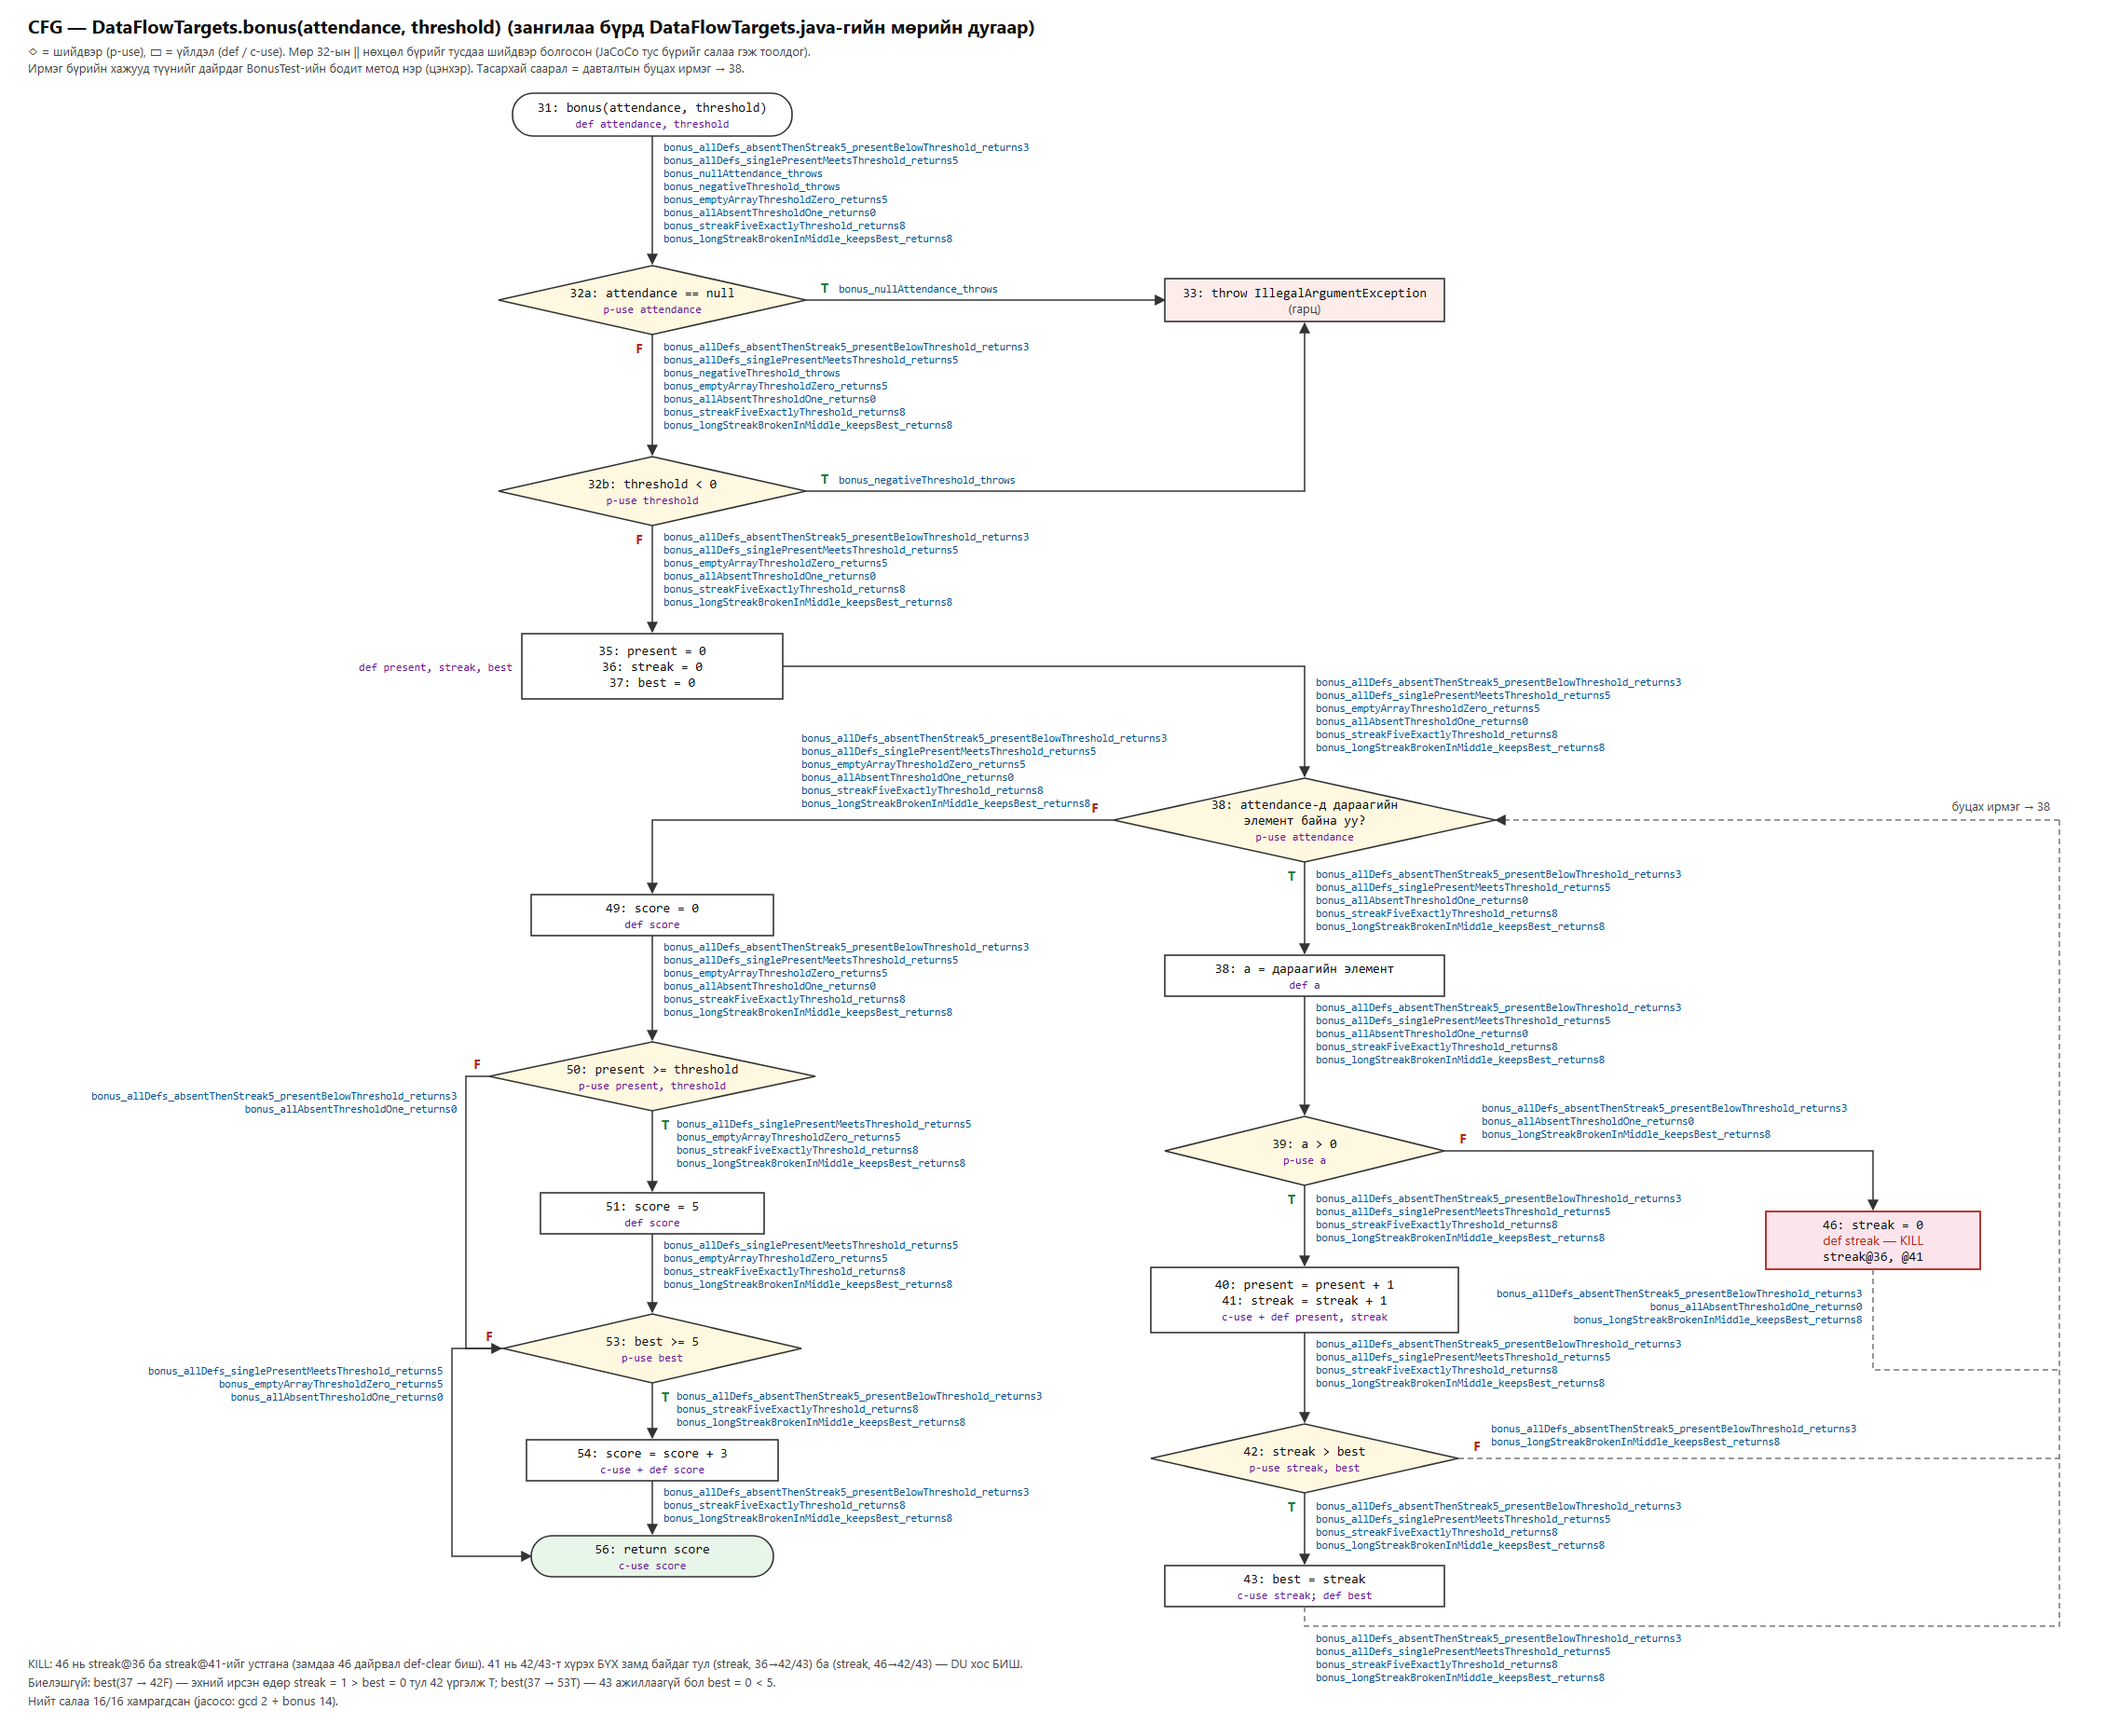
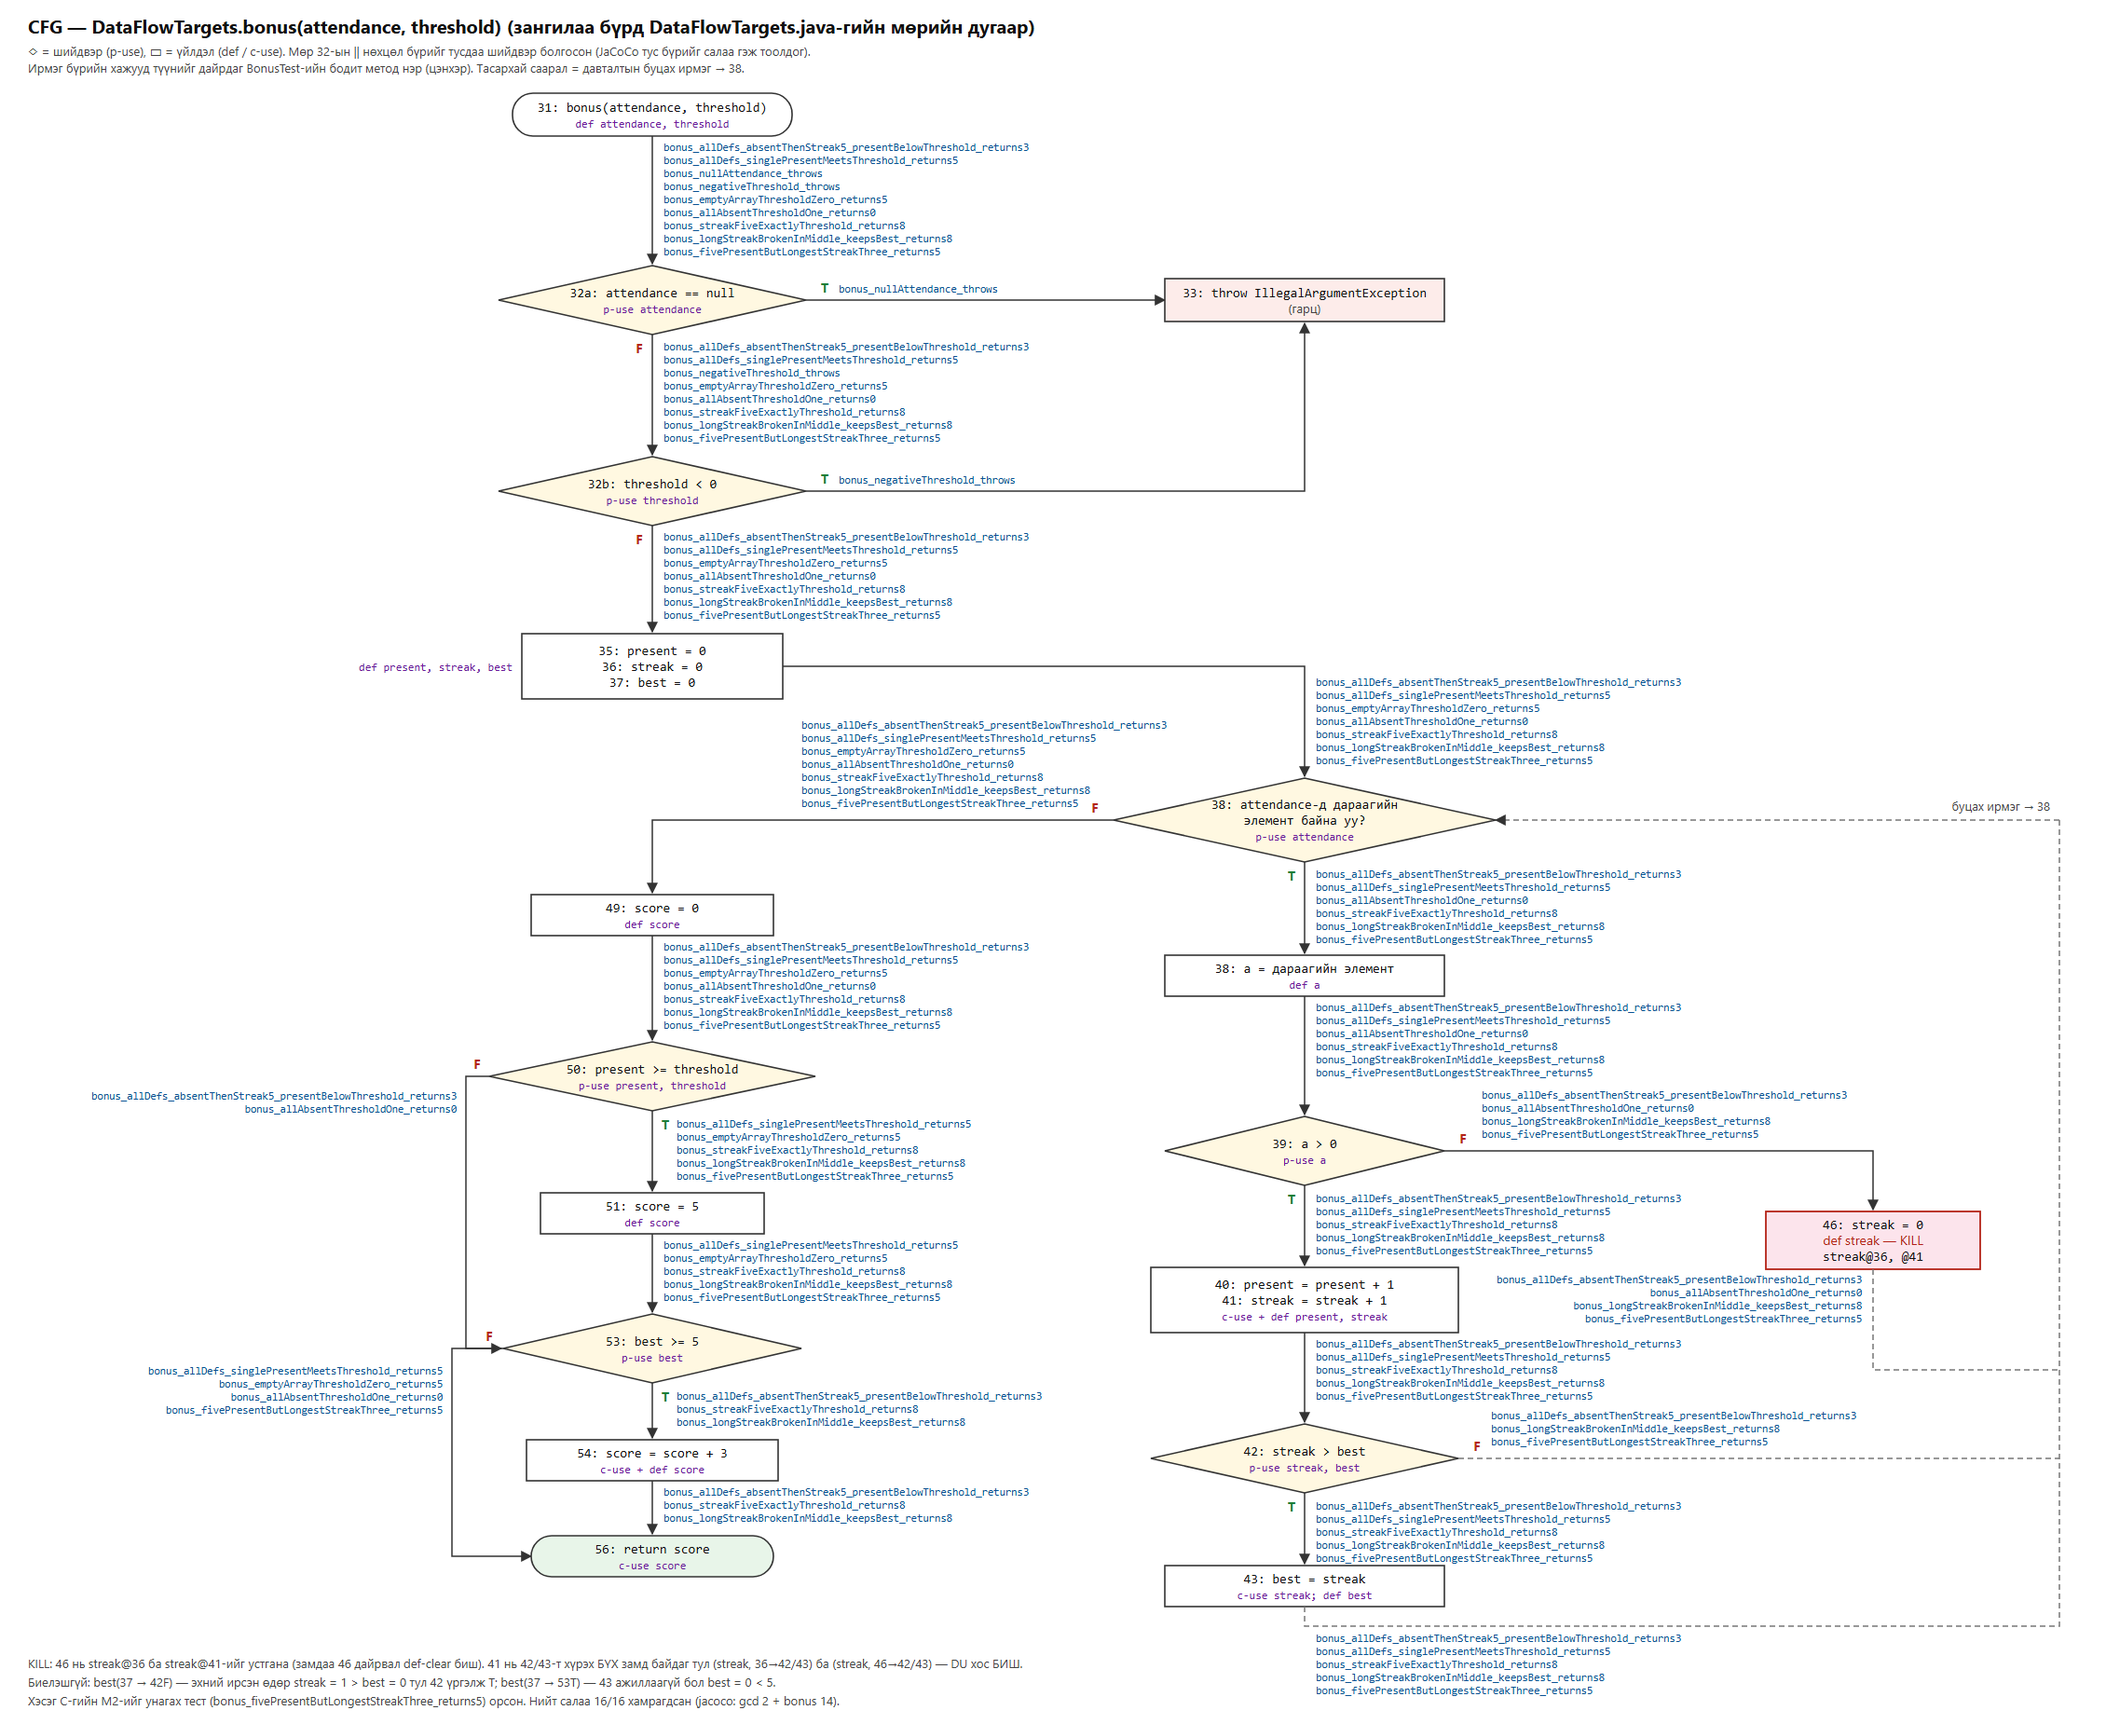
C: fault seeding M1/M2/M3 results; M2 survived all-DU-pairs -> add kill test bonus_fivePresentButLongestStreakThree_returns5; M3 caught only by static analysis (ecj); final verify (src/main restored to Starter)

diff --git a/src/test/java/mn/edu/must/sqat/BonusTest.java b/src/test/java/mn/edu/must/sqat/BonusTest.java
@@ -72,4 +72,14 @@ class BonusTest {
     void bonus_longStreakBrokenInMiddle_keepsBest_returns8() {
         assertEquals(8, DataFlowTargets.bonus(new int[] {1, 1, 1, 1, 1, 1, 0, 1, 1}, 8));
     }
+
+    // ---------- Part C: kills mutant M2 (best = present instead of max streak) ----------
+
+    // In every earlier test, (present >= 5) and (longest streak >= 5) had the SAME truth value at line 53,
+    // so best@43 = present (M2) gave the same output. Here present = 5 but the longest streak is only 3.
+    @Test
+    @DisplayName("K bonus([1,1,1,0,1,1],5)=5 | best(43->53F) with present=5 but best=3 (kills M2)")
+    void bonus_fivePresentButLongestStreakThree_returns5() {
+        assertEquals(5, DataFlowTargets.bonus(new int[] {1, 1, 1, 0, 1, 1}, 5));
+    }
 }
